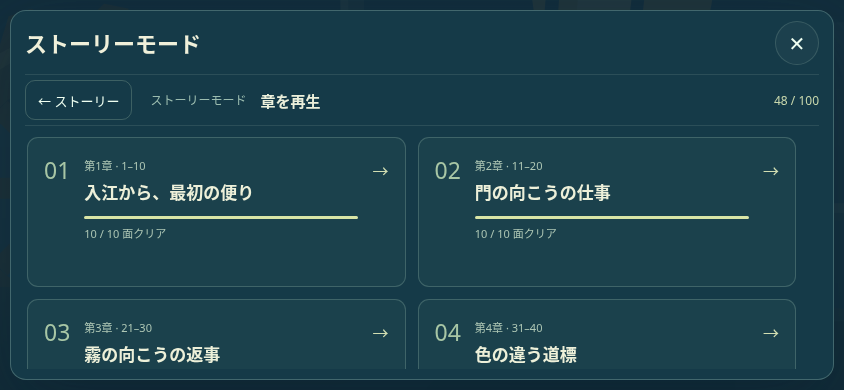
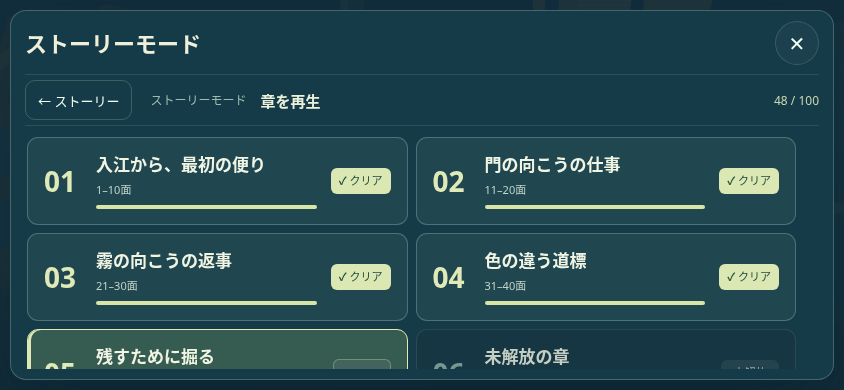
fix(arcline): clarify chapter list and make equipment catalogs easy to find

diff --git a/ARCLINE/game/dist/presentation.js b/ARCLINE/game/dist/presentation.js
@@ -60,7 +60,7 @@ function showCollection(data,onEquip,initialView='characters',options={}){
  const owned=id=>Crew.owned(data,id);
  function paint(){
   document.querySelector('#collectionPanel header strong').textContent=collectionView==='characters'?local('仲間と持ち物','Companions and inventory'):local('武器・スキル図鑑','Weapons and skills');
-  let body=`<div class="collection-tabs" role="tablist"><button data-collection-tab="characters" role="tab" aria-selected="${collectionView==='characters'}">${local('仲間','Companions')} ${data.unlockedCharacterIds.length}/10</button><button data-collection-tab="weapons" role="tab" aria-selected="${collectionView==='weapons'}">${local('武器一覧','Weapon records')}</button><button data-collection-tab="skills" role="tab" aria-selected="${collectionView==='skills'}">${local('スキル一覧','Skill records')}</button></div>`;
+  let body=`<div class="collection-tabs" role="tablist"><button data-collection-tab="characters" role="tab" aria-selected="${collectionView==='characters'}">${local('仲間','Companions')} ${data.unlockedCharacterIds.length}/10</button><button data-collection-tab="weapons" role="tab" aria-selected="${collectionView==='weapons'}">${local('武器図鑑','Weapon catalog')}</button><button data-collection-tab="skills" role="tab" aria-selected="${collectionView==='skills'}">${local('スキル図鑑','Skill catalog')}</button></div>`;
   if(collectionView==='characters'){
    const m=A.get(inspected),p=C.get(inspected),r=Crew.get(inspected),selected=data.equippedCharacterId===inspected;
    body+=`<div class="machine-roster"><div class="machine-buttons" role="group" aria-label="${local('10機の仲間','Ten machines')}">${Crew.rows.map(r=>root.ArcCharacterHero.tile(r.id,data,inspected,language())).join('')}</div><section class="machine-profile" aria-label="${m.name}">${root.ArcCharacterHero.markup(m.id,{data,lang:language(),description:root.ArcStory.pick(r.desire,language())})}</section></div>`;
@@ -84,27 +84,26 @@ function showWeapons(choices,current,onSelect,options={}){
  const library=!!options.library,skills=Object.entries(options.skills||{}).filter(([,n])=>n>0),aux=choices.filter(c=>c.id!=='W01'&&!((c.weapon||W.get(c.id)).special)&&c.ammo>0),total=aux.reduce((n,c)=>n+c.ammo,0),skillTotal=skills.reduce((n,[,count])=>n+count,0),scroller=$('weaponStockScroll'),positions={weapons:0,skills:0};let tab='weapons',inspected=null;
  $('weaponStockInspector')?.remove();
  $('weaponPickerTitle').textContent=library?local('武器・スキルの確認','Inspect weapons and skills'):options.title||'Choose weapon';document.querySelector('.weapon-picker-note').textContent=options.note||'Unused ammunition and skills carry across chapters. Each map capsule can be claimed once per difficulty.';
- $('weaponPicker').dataset.stockLibrary=String(library);$('weaponChoices').setAttribute('role',library?'tabpanel':'group');$('weaponChoices').setAttribute('aria-labelledby',library?'inventoryWeaponsTab':'weaponPickerTitle');$('inventoryTabs').hidden=!library;$('openLibrary').hidden=!library;
+ $('weaponPicker').dataset.stockLibrary=String(library);$('weaponChoices').setAttribute('role',library?'tabpanel':'group');$('weaponChoices').setAttribute('aria-labelledby',library?'inventoryWeaponsTab':'weaponPickerTitle');$('inventoryTabs').hidden=!library;$('inventoryCatalogLinks').hidden=!library;
  const refresh=()=>{
   $('weaponInventorySummary').textContent=library?local(`武器${aux.length}種類・${total}発 / スキル${skills.length}種類・${skillTotal}回`,`${aux.length} weapon types · ${total} shots / ${skills.length} skill types · ${skillTotal} uses`):local(`補助武器${aux.length}種類・残数${total}発`,`${aux.length} auxiliary types · ${total} shots`);
-  $('inventoryWeaponsTab').textContent=local('武器','Weapons')+' '+aux.length;$('inventorySkillsTab').textContent=local('スキル','Skills')+' '+skills.length;
+  $('inventoryWeaponsTab').textContent=local('保有武器','Owned weapons')+' '+aux.length;$('inventorySkillsTab').textContent=local('保有スキル','Owned skills')+' '+skills.length;
   $('weaponPickerTitle').textContent=library?local('武器・スキルの確認','Inspect weapons and skills'):options.title||'Choose weapon';
-  $('openLibrary').textContent=local('武器・スキル図鑑を開く','Open weapons and skills catalog');
+  $('openLibrary').querySelector('span').textContent=local('武器図鑑','Weapon catalog');$('openSkillLibrary').querySelector('span').textContent=local('スキル図鑑','Skill catalog');$('openLibrary').setAttribute('aria-label',local('全種類の武器図鑑を開く','Open the catalog of all weapons'));$('openSkillLibrary').setAttribute('aria-label',local('全種類のスキル図鑑を開く','Open the catalog of all skills'));
   for(const card of $('weaponChoices').querySelectorAll('[data-choose-weapon]')){const i=itemInfo(card.dataset.chooseWeapon);card.querySelector('strong').textContent=i.name;card.querySelector('.weapon-choice-copy small').textContent=i.note;card.setAttribute('aria-label',i.name+', '+stockLabel(card.dataset.chooseWeapon,'weapons',{weapons:Object.fromEntries(choices.map(c=>[c.id,c.ammo]))}));}
   $('chapterSkillStock').innerHTML=skills.length?skills.map(([id,n])=>{const info=root.ArcSkills.get(id);return `<button type="button" class="inventory-skill${info?.rare?' rare':''}" data-stock-skill="${id}"><i aria-hidden="true">${root.ArcSkills.markup(id)}</i><div><strong>${escape(itemInfo(id,'skills').name)}</strong><small>${escape(itemInfo(id,'skills').note)}</small></div><b class="inventory-count">×${n}</b></button>`;}).join(''):`<p class="stock-empty">${local('保有スキルはありません。マップのカプセルから入手できます。','No skills in stock. Collect capsules on the map.')}</p>`;
  };
  weaponRefresh=()=>{refresh();bindSkillInspection();paintInspector();};
- let category=null;$('weaponChoices').innerHTML=choices.map(choice=>{const heading=options.grouped&&choice.category!==category?`<h3 class="weapon-group-heading">${choice.category==='machine'?'Machine weapons':'Picked auxiliary'}</h3>`:'';category=choice.category;const w=choice.weapon||W.get(choice.id),selected=choice.id===current,empty=!!choice.disabled||choice.ammo<=0,stock=choice.id==='W01'?'Unlimited':`${choice.ammo} ${choice.ammo===1?'shot':'shots'}`,source=choice.id==='W01'?'Always available':choice.source||'Carries across chapters';return heading+`<button type="button" data-choose-weapon="${choice.id}" class="${selected?'selected ':''}${empty?'empty':''}" ${empty?'disabled':''} aria-pressed="${selected}" aria-label="${escape(w.name)}, ${stock}, ${empty?'empty':selected?'selected':source}" style="--weapon-color:${w.appearance.color}"><i aria-hidden="true">${W.iconMarkup(choice.id)}</i><span class="weapon-choice-copy"><strong>${escape(itemInfo(choice.id).name)}</strong><small>${escape(library?itemInfo(choice.id).note:source)}</small></span><span class="weapon-choice-stock"><span>${stock}</span><small>${empty?'Empty':selected?'Selected':'Select'}</small></span></button>`;}).join('');
- const switchTab=(next,focus=false)=>{positions[tab]=scroller.scrollTop;tab=next;document.querySelector('.weapon-picker-note').hidden=library&&tab==='skills';$('weaponChoices').hidden=tab!=='weapons';$('chapterSkillStock').hidden=tab!=='skills';$('openLibrary').hidden=!library;for(const name of ['weapons','skills']){const b=$(name==='weapons'?'inventoryWeaponsTab':'inventorySkillsTab'),active=name===tab;b.setAttribute('aria-selected',String(active));b.tabIndex=active?0:-1;if(active&&focus)b.focus({preventScroll:true});}scroller.scrollTop=positions[tab];inspected=null;paintInspector();};
+ let category=null;$('weaponChoices').innerHTML=choices.map(choice=>{const heading=options.grouped&&choice.category!==category?`<h3 class="weapon-group-heading">${choice.category==='machine'?'Machine weapons':'Picked auxiliary'}</h3>`:'';category=choice.category;const w=choice.weapon||W.get(choice.id),selected=!library&&choice.id===current,empty=!!choice.disabled||choice.ammo<=0,stock=choice.id==='W01'?'Unlimited':`${choice.ammo} ${choice.ammo===1?'shot':'shots'}`,source=choice.id==='W01'?'Always available':choice.source||'Carries across chapters';return heading+`<button type="button" data-choose-weapon="${choice.id}" class="${selected?'selected ':''}${empty?'empty':''}" ${empty?'disabled':''} aria-pressed="${selected}" aria-label="${escape(w.name)}, ${stock}, ${empty?'empty':selected?'selected':source}" style="--weapon-color:${w.appearance.color}"><i aria-hidden="true">${W.iconMarkup(choice.id)}</i><span class="weapon-choice-copy"><strong>${escape(itemInfo(choice.id).name)}</strong><small>${escape(library?itemInfo(choice.id).note:source)}</small></span><span class="weapon-choice-stock"><span>${stock}</span><small>${empty?'Empty':selected?'Selected':'Select'}</small></span></button>`;}).join('');
+ const switchTab=(next,focus=false)=>{positions[tab]=scroller.scrollTop;tab=next;document.querySelector('.weapon-picker-note').hidden=library&&tab==='skills';$('weaponChoices').hidden=tab!=='weapons';$('chapterSkillStock').hidden=tab!=='skills';$('inventoryCatalogLinks').hidden=!library;for(const name of ['weapons','skills']){const b=$(name==='weapons'?'inventoryWeaponsTab':'inventorySkillsTab'),active=name===tab;b.setAttribute('aria-selected',String(active));b.tabIndex=active?0:-1;if(active&&focus)b.focus({preventScroll:true});}scroller.scrollTop=positions[tab];inspected=null;paintInspector();};
  for(const name of ['weapons','skills']){const b=$(name==='weapons'?'inventoryWeaponsTab':'inventorySkillsTab');b.onclick=()=>switchTab(name);b.onkeydown=e=>{if(!['ArrowLeft','ArrowRight','Home','End'].includes(e.key))return;e.preventDefault();switchTab(e.key==='Home'?'weapons':e.key==='End'?'skills':tab==='weapons'?'skills':'weapons',true);};}
  let inspector=null;
  function paintInspector(){
   if(!library||!inspector)return;
   const info=inspected&&itemInfo(inspected,tab);
-  inspector.innerHTML=inspected?`<div><strong>${escape(info.name)}</strong><p>${escape(info.note)}</p><small>${tab==='skills'?local('ここでは確認のみ。戦闘中に使用できます。','Inspect here; use skills during battle.'):stockLabel(inspected,tab,{weapons:Object.fromEntries(choices.map(c=>[c.id,c.ammo]))})}</small></div>${tab==='weapons'?`<button type="button" id="confirmStockWeapon">${inspected===current?local('装備中','Equipped'):local('この武器を装備','Equip this weapon')}</button>`:''}`:`<p>${local('カードを選んで効果を確認。持ち物は消費しません。','Select a card to inspect. No stock is consumed.')}</p>`;
-  if($('confirmStockWeapon')){$('confirmStockWeapon').disabled=inspected===current;$('confirmStockWeapon').onclick=()=>{const id=inspected;closeWeapons();onSelect(id);};}
+  inspector.innerHTML=inspected?`<div><strong>${escape(info.name)}</strong><p>${escape(info.note)}</p><small>${stockLabel(inspected,tab,{weapons:Object.fromEntries(choices.map(c=>[c.id,c.ammo])),skills:options.skills})}</small><small class="stock-inspection-note">${local('戦闘中に選んで使用できます。','Choose and use it during battle.')}</small></div>`:`<p>${local('カードを選んで効果を確認。持ち物は消費しません。','Select a card to inspect. No stock is consumed.')}</p>`;
   for(const card of $('chapterSkillStock').querySelectorAll('[data-stock-skill]'))card.setAttribute('aria-pressed',String(card.dataset.stockSkill===inspected));
-  for(const card of $('weaponChoices').querySelectorAll('[data-choose-weapon]'))card.dataset.inspected=String(card.dataset.chooseWeapon===inspected);
+  for(const card of $('weaponChoices').querySelectorAll('[data-choose-weapon]')){card.dataset.inspected=String(card.dataset.chooseWeapon===inspected);card.setAttribute('aria-pressed',String(card.dataset.chooseWeapon===inspected));}
  }
  function bindSkillInspection(){for(const card of $('chapterSkillStock').querySelectorAll('[data-stock-skill]'))card.onclick=()=>{inspected=card.dataset.stockSkill;paintInspector();};}
  if(library){inspector=document.createElement('section');inspector.id='weaponStockInspector';inspector.className='stock-inspector';inspector.dataset.storyRaw='';inspector.setAttribute('aria-live','polite');$('weaponStockScroll').before(inspector);}

diff --git a/ARCLINE/game/dist/index.html b/ARCLINE/game/dist/index.html
@@ -85,7 +85,7 @@
 <div id="overlay" hidden><div class="modal" role="dialog" aria-modal="true" aria-labelledby="modalTitle" aria-describedby="modalDetail"><div id="resultIcon">Ⅱ</div><span id="modalEyebrow">DUEL PAUSED</span><h2 id="modalTitle">Take a breath.</h2><p id="modalDetail"></p><p id="clearRewardLine" hidden role="status"></p><section id="clearNarrative" data-story-raw hidden><canvas id="resultStoryArt" aria-hidden="true"></canvas><div class="clear-story-copy"><strong id="clearStoryTitle"></strong><small id="clearStoryArea"></small><div id="clearAreaProgress" aria-hidden="true" hidden></div><div id="chapterMessage" role="status" aria-live="polite"></div></div></section><button type="button" id="resume" class="play-button">RESUME</button><button type="button" id="retryFinalCharacter" class="play-button" hidden data-story-raw>このキャラから再挑戦</button><button type="button" id="replayClearMovie" class="quiet-button" hidden>Replay scene</button><button type="button" id="resultJourney" class="quiet-button" hidden>THE JOURNEY →</button><div id="endingCollection" hidden></div><button type="button" id="pauseMachineChange" class="quiet-button">機体を変更 / Switch machine</button><div id="pauseSettings" role="group" aria-label="Game settings"><button type="button" class="pause-fullscreen" data-fullscreen>Fullscreen</button><button type="button" class="pause-language" data-language-button>English</button><button type="button" id="mirrorControls" class="quiet-button">Move / aim → Right</button></div><button type="button" id="retryLevel" class="quiet-button">Retry level</button><button type="button" id="returnLobby" class="quiet-button">LOADOUT</button></div></div>
 <div id="levelPicker" hidden><div class="level-panel"><header><div><strong>Journey</strong></div><button type="button" id="closeLevels" aria-label="Close level selection">✕</button></header><div id="journeyAreas" role="tablist" aria-label="Journey themes"></div><div class="theme-switch"><button type="button" id="journeyPrev" aria-label="Previous theme">‹</button><div id="journeySummary"></div><button type="button" id="journeyNext" aria-label="Next theme">›</button></div><div id="levelGrid"></div><button type="button" id="restartChapter" class="quiet-button">Start chapter from the beginning</button></div></div>
 <div id="collectionPanel" hidden><div class="collection-panel"><header><div><strong>Equipment</strong></div><button type="button" id="closeCollection" aria-label="Close collection">✕</button></header><div id="collectionGrid"></div></div></div>
-<div id="lootPicker" hidden><div class="loot-panel" role="dialog" aria-modal="true" aria-labelledby="lootTitle" aria-describedby="lootInstruction"><h2 id="lootTitle">Weapon slots full</h2><p class="loot-incoming"><strong id="lootName"></strong><b id="lootAmount"></b></p><p id="lootInstruction">Replace one item, or skip.</p><div id="lootChoices"></div><button type="button" id="lootSkip" class="quiet-button">Skip pickup</button></div></div><div id="skillPicker" hidden><div class="weapon-panel" role="dialog" aria-modal="true" aria-labelledby="skillPickerTitle"><header><div class="stock-heading"><strong id="skillPickerTitle">Choose combat skill</strong><small id="skillInventorySummary" class="stock-summary"></small></div><button type="button" id="closeSkills" aria-label="Close skill selection">✕</button></header><div id="skillStockScroll" class="stock-scroll" role="region" aria-labelledby="skillPickerTitle" tabindex="0"><div id="skillChoices"></div><div id="repairConfirm" hidden><p id="repairAmount"></p><button type="button" id="repairCommit">Repair now</button><button type="button" id="repairCancel">Cancel repair</button></div></div></div></div><div id="weaponPicker" hidden><div class="weapon-panel" role="dialog" aria-modal="true" aria-labelledby="weaponPickerTitle"><header><div class="stock-heading"><strong id="weaponPickerTitle">Choose weapon</strong><small id="weaponInventorySummary" class="stock-summary"></small></div><button type="button" id="closeWeapons" aria-label="Close weapon selection">✕</button></header><div id="inventoryTabs" class="stock-tabs" role="tablist" hidden><button type="button" id="inventoryWeaponsTab" role="tab" aria-controls="weaponChoices" aria-selected="true">Weapons</button><button type="button" id="inventorySkillsTab" role="tab" aria-controls="chapterSkillStock" aria-selected="false">Skills</button></div><div id="weaponStockScroll" class="stock-scroll" role="region" aria-labelledby="weaponPickerTitle" tabindex="0"><div id="weaponChoices"></div><div id="chapterSkillStock" role="tabpanel" aria-labelledby="inventorySkillsTab" hidden></div><p class="weapon-picker-note">Unused weapons and skills carry across chapters.</p><button type="button" id="openLibrary" class="quiet-button" hidden>Weapon records</button></div></div></div>
+<div id="lootPicker" hidden><div class="loot-panel" role="dialog" aria-modal="true" aria-labelledby="lootTitle" aria-describedby="lootInstruction"><h2 id="lootTitle">Weapon slots full</h2><p class="loot-incoming"><strong id="lootName"></strong><b id="lootAmount"></b></p><p id="lootInstruction">Replace one item, or skip.</p><div id="lootChoices"></div><button type="button" id="lootSkip" class="quiet-button">Skip pickup</button></div></div><div id="skillPicker" hidden><div class="weapon-panel" role="dialog" aria-modal="true" aria-labelledby="skillPickerTitle"><header><div class="stock-heading"><strong id="skillPickerTitle">Choose combat skill</strong><small id="skillInventorySummary" class="stock-summary"></small></div><button type="button" id="closeSkills" aria-label="Close skill selection">✕</button></header><div id="skillStockScroll" class="stock-scroll" role="region" aria-labelledby="skillPickerTitle" tabindex="0"><div id="skillChoices"></div><div id="repairConfirm" hidden><p id="repairAmount"></p><button type="button" id="repairCommit">Repair now</button><button type="button" id="repairCancel">Cancel repair</button></div></div></div></div><div id="weaponPicker" hidden><div class="weapon-panel" role="dialog" aria-modal="true" aria-labelledby="weaponPickerTitle"><header><div class="stock-heading"><strong id="weaponPickerTitle">Choose weapon</strong><small id="weaponInventorySummary" class="stock-summary"></small></div><button type="button" id="closeWeapons" aria-label="Close weapon selection">✕</button></header><div id="inventoryTabs" class="stock-tabs" role="tablist" hidden><button type="button" id="inventoryWeaponsTab" role="tab" aria-controls="weaponChoices" aria-selected="true">Weapons</button><button type="button" id="inventorySkillsTab" role="tab" aria-controls="chapterSkillStock" aria-selected="false">Skills</button></div><nav id="inventoryCatalogLinks" class="catalog-shortcuts" aria-label="Equipment catalogs" hidden data-story-raw><button type="button" id="openLibrary"><span></span><b aria-hidden="true">↗</b></button><button type="button" id="openSkillLibrary"><span></span><b aria-hidden="true">↗</b></button></nav><div id="weaponStockScroll" class="stock-scroll" role="region" aria-labelledby="weaponPickerTitle" tabindex="0"><div id="weaponChoices"></div><div id="chapterSkillStock" role="tabpanel" aria-labelledby="inventorySkillsTab" hidden></div><p class="weapon-picker-note">Unused weapons and skills carry across chapters.</p></div></div></div>
 <section id="expeditionDialog" hidden role="dialog" aria-modal="true" aria-labelledby="expeditionTitle" aria-describedby="expeditionText expeditionQuestion" data-story-raw><div id="expeditionLoading" role="status" aria-live="polite" hidden><p id="expeditionLoadingText"></p><div><button type="button" id="expeditionLoadRetry" hidden></button><button type="button" id="expeditionLoadBack"></button></div></div>
   <div class="expedition-panel"><div class="expedition-visual"><div id="expeditionArt"></div></div><div class="expedition-copy"><small>ARCLINE</small><h2 id="expeditionTitle"></h2><h3 id="expeditionMachineName"></h3><h3 id="expeditionName"></h3><p id="expeditionRole"></p><p id="expeditionMotto"></p><p id="expeditionText"></p><details><summary id="expeditionAbilitySummary">固有必殺技</summary><p id="expeditionAbility"></p></details><p id="expeditionQuestion"></p><p id="expeditionError" hidden role="alert">保存できませんでした。もう一度選択してください。 / Save failed. Please retry.</p></div><div class="expedition-actions"><button type="button" id="expeditionUse"></button><button type="button" id="expeditionStay"></button></div></div></section><section id="chapterPlayback" hidden role="dialog" aria-modal="true" aria-labelledby="chapterPlaybackTitle" data-story-raw><header class="chapter-playback-header"><strong>ARCLINE</strong><span id="chapterPlaybackLabel"></span></header><div class="chapter-playback-body"><div id="chapterPlaybackArt"></div><div class="chapter-playback-copy"><h2 id="chapterPlaybackTitle"></h2><div id="chapterPlaybackText" role="status" aria-live="polite"></div></div></div><footer class="chapter-playback-controls"><button type="button" id="chapterPlaybackBack"></button><button type="button" id="chapterPlaybackPause"></button><button type="button" id="chapterPlaybackNext"></button></footer></section><section id="storyCinema" hidden role="dialog" aria-modal="true" aria-labelledby="filmTitle" data-story-raw><canvas id="storyFilm" aria-hidden="true"></canvas><div class="film-stage"><div id="filmPlate"></div><p id="filmImageStatus" role="status" hidden></p></div><header class="film-header"><span>ARCLINE <small id="filmCount"></small></span><nav><button type="button" id="filmPause">Pause</button><button type="button" id="filmSkip">Skip</button></nav></header><div class="film-caption"><div><h2 id="filmTitle"></h2><div id="filmText" role="status" aria-live="polite"></div></div><button type="button" id="filmNext">Next scene</button></div></section></div><section id="screenHelp" hidden role="dialog" aria-modal="true" aria-labelledby="screenHelpTitle"><div><h2 id="screenHelpTitle">Play without browser bars</h2><p>On iPhone Safari, use Share → Add to Home Screen, then launch ARCLINE from its icon.</p><p>Your progress stays on this browser. The home-screen app may have separate progress.</p><button type="button" id="closeScreenHelp">Close</button></div></section></main>
 <!-- runtime:scripts:start -->

diff --git a/ARCLINE/game/dist/menu-ui.css b/ARCLINE/game/dist/menu-ui.css
@@ -243,7 +243,6 @@ input:checked+span .difficulty-current { visibility: visible; }
 .stock-inspector strong { font-size: 20px; line-height: 1.4; }
 .stock-inspector p { font-size: 14px; line-height: 1.7; margin: 8px 0 12px; }
 .stock-inspector small { display: block; font-size: 12px; line-height: 1.6; color: #c7d9ca; }
-#confirmStockWeapon { min-height: 44px; width: 100%; margin-top: 16px; background: #ddebba; color: #163b47; }
 #weaponPicker[data-stock-library="true"] #weaponChoices { grid-template-columns: repeat(auto-fit,minmax(200px,1fr)); }
 #weaponPicker[data-stock-library="true"] #weaponChoices .weapon-choice-copy small { display: block; }
 #weaponPicker[data-stock-library="true"] #weaponChoices [data-inspected="true"],
@@ -254,3 +253,39 @@ input:checked+span .difficulty-current { visibility: visible; }
 #collectionGrid .equipment-grid *,#recordNavigation *,#recordBody *,#lobbySettings [role="tabpanel"] * { touch-action: pan-y; }
 @media (max-width:700px){.equipment-records .equipment-grid{grid-template-columns:1fr}.equipment-records{grid-template-columns:minmax(0,1.3fr) minmax(0,1fr);gap:8px}}
 @media (max-height:400px){#weaponPicker[data-stock-library="true"] .weapon-panel{gap:6px 10px}.stock-inspector{padding:10px}.stock-inspector strong{font-size:17px}.stock-inspector p{font-size:13px}.equipment-inspector{padding:10px}.equipment-inspector>strong{font-size:17px}.equipment-inspector p{font-size:13px}}
+
+/* Chapters are scanable rows: number, title/range, then an explicit status. */
+#recordNavigation[data-record-kind="chapters"] { grid-template-columns: repeat(2,minmax(0,1fr)); gap: 8px; }
+#recordNavigation .chapter-record { display:grid; grid-template-columns:38px minmax(0,1fr) auto; align-items:center; gap:14px; min-height:88px; padding:14px 16px; background:#204650; border-color:#92b2ab66; }
+#recordNavigation .chapter-record .record-card-number { font-size:28px; line-height:1.1; color:#e0eab8; font-weight:650; }
+#recordNavigation .chapter-record .record-card-copy { gap:5px; }
+#recordNavigation .chapter-record .record-card-copy>strong { font-size:17px; line-height:1.4; color:#f0f4e3; }
+#recordNavigation .chapter-record .record-card-copy>small { color:#c2d4c8; font-size:11px; line-height:1.4; }
+#recordNavigation .chapter-record .record-card-progress { height:4px; margin-top:2px; background:#b3cbb044; }
+.chapter-status { min-width:58px; text-align:center; white-space:nowrap; padding:6px 8px; border-radius:6px; font-size:11px; line-height:1.3; font-variant-numeric:tabular-nums; }
+.chapter-status.complete { background:#dce8b4; color:#224b3f; }
+.chapter-status.current { color:#edf2c8; background:#42645d; border:1px solid #aec48f77; }
+.chapter-status.locked { color:#b7cbc3; background:#294650; }
+#recordNavigation .chapter-record:disabled { opacity:.8; background:#163642; border-color:#77968e44; }
+#recordNavigation .chapter-record:disabled .record-card-number { color:#91afa3; }
+#recordNavigation .chapter-record[aria-current="true"] { background:#365c52; border-color:#e1eab1; box-shadow:inset 3px 0 #dce8b4; }
+/* Both catalogs stay visible beside the owned-stock tabs, including empty stock. */
+#weaponPicker[data-stock-library="true"] #inventoryTabs { grid-column:1; }
+#weaponPicker[data-stock-library="true"] #inventoryCatalogLinks { grid-column:2; grid-row:2; }
+.catalog-shortcuts { display:grid; grid-template-columns:1fr 1fr; gap:8px; min-width:0; }
+.catalog-shortcuts button { display:flex; align-items:center; justify-content:space-between; gap:6px; min-height:42px; padding:8px 10px; color:#e4edbe; background:#31564f; border:1px solid #c3d49b99; border-radius:9px; font-size:13px; line-height:1.3; text-align:left; }
+.catalog-shortcuts button b { font-size:15px; }
+#openLibrary { width:auto; min-height:42px; margin:0; }
+#weaponPicker[data-stock-library="true"] .stock-tabs button { padding:6px 8px; font-size:13px; }
+.stock-inspector .stock-inspection-note { margin-top:16px; padding-top:12px; border-top:1px solid #91b3a344; }
+@media(max-width:650px){
+ #recordNavigation .chapter-record { grid-template-columns:28px minmax(0,1fr) auto; gap:8px; min-height:94px; padding:12px 10px; }
+ #recordNavigation .chapter-record .record-card-number { font-size:23px; }
+ #recordNavigation .chapter-record .record-card-copy>strong { font-size:14px; }
+ #recordNavigation .chapter-record .record-card-copy>small { font-size:10px; }
+ .chapter-status { min-width:45px; padding:5px; font-size:10px; }
+ .catalog-shortcuts { gap:5px; }
+ .catalog-shortcuts button { padding:6px; gap:3px; font-size:11px; }
+ .catalog-shortcuts button b { font-size:12px; }
+ #weaponPicker[data-stock-library="true"] .stock-tabs button { font-size:11px; padding:6px 4px; }
+}

diff --git a/ARCLINE/game/styles/menu-ui.css b/ARCLINE/game/styles/menu-ui.css
@@ -242,7 +242,6 @@ input:checked+span .difficulty-current { visibility: visible; }
 .stock-inspector strong { font-size: 20px; line-height: 1.4; }
 .stock-inspector p { font-size: 14px; line-height: 1.7; margin: 8px 0 12px; }
 .stock-inspector small { display: block; font-size: 12px; line-height: 1.6; color: #c7d9ca; }
-#confirmStockWeapon { min-height: 44px; width: 100%; margin-top: 16px; background: #ddebba; color: #163b47; }
 #weaponPicker[data-stock-library="true"] #weaponChoices { grid-template-columns: repeat(auto-fit,minmax(200px,1fr)); }
 #weaponPicker[data-stock-library="true"] #weaponChoices .weapon-choice-copy small { display: block; }
 #weaponPicker[data-stock-library="true"] #weaponChoices [data-inspected="true"],
@@ -253,3 +252,39 @@ input:checked+span .difficulty-current { visibility: visible; }
 #collectionGrid .equipment-grid *,#recordNavigation *,#recordBody *,#lobbySettings [role="tabpanel"] * { touch-action: pan-y; }
 @media (max-width:700px){.equipment-records .equipment-grid{grid-template-columns:1fr}.equipment-records{grid-template-columns:minmax(0,1.3fr) minmax(0,1fr);gap:8px}}
 @media (max-height:400px){#weaponPicker[data-stock-library="true"] .weapon-panel{gap:6px 10px}.stock-inspector{padding:10px}.stock-inspector strong{font-size:17px}.stock-inspector p{font-size:13px}.equipment-inspector{padding:10px}.equipment-inspector>strong{font-size:17px}.equipment-inspector p{font-size:13px}}
+
+/* Chapters are scanable rows: number, title/range, then an explicit status. */
+#recordNavigation[data-record-kind="chapters"] { grid-template-columns: repeat(2,minmax(0,1fr)); gap: 8px; }
+#recordNavigation .chapter-record { display:grid; grid-template-columns:38px minmax(0,1fr) auto; align-items:center; gap:14px; min-height:88px; padding:14px 16px; background:#204650; border-color:#92b2ab66; }
+#recordNavigation .chapter-record .record-card-number { font-size:28px; line-height:1.1; color:#e0eab8; font-weight:650; }
+#recordNavigation .chapter-record .record-card-copy { gap:5px; }
+#recordNavigation .chapter-record .record-card-copy>strong { font-size:17px; line-height:1.4; color:#f0f4e3; }
+#recordNavigation .chapter-record .record-card-copy>small { color:#c2d4c8; font-size:11px; line-height:1.4; }
+#recordNavigation .chapter-record .record-card-progress { height:4px; margin-top:2px; background:#b3cbb044; }
+.chapter-status { min-width:58px; text-align:center; white-space:nowrap; padding:6px 8px; border-radius:6px; font-size:11px; line-height:1.3; font-variant-numeric:tabular-nums; }
+.chapter-status.complete { background:#dce8b4; color:#224b3f; }
+.chapter-status.current { color:#edf2c8; background:#42645d; border:1px solid #aec48f77; }
+.chapter-status.locked { color:#b7cbc3; background:#294650; }
+#recordNavigation .chapter-record:disabled { opacity:.8; background:#163642; border-color:#77968e44; }
+#recordNavigation .chapter-record:disabled .record-card-number { color:#91afa3; }
+#recordNavigation .chapter-record[aria-current="true"] { background:#365c52; border-color:#e1eab1; box-shadow:inset 3px 0 #dce8b4; }
+/* Both catalogs stay visible beside the owned-stock tabs, including empty stock. */
+#weaponPicker[data-stock-library="true"] #inventoryTabs { grid-column:1; }
+#weaponPicker[data-stock-library="true"] #inventoryCatalogLinks { grid-column:2; grid-row:2; }
+.catalog-shortcuts { display:grid; grid-template-columns:1fr 1fr; gap:8px; min-width:0; }
+.catalog-shortcuts button { display:flex; align-items:center; justify-content:space-between; gap:6px; min-height:42px; padding:8px 10px; color:#e4edbe; background:#31564f; border:1px solid #c3d49b99; border-radius:9px; font-size:13px; line-height:1.3; text-align:left; }
+.catalog-shortcuts button b { font-size:15px; }
+#openLibrary { width:auto; min-height:42px; margin:0; }
+#weaponPicker[data-stock-library="true"] .stock-tabs button { padding:6px 8px; font-size:13px; }
+.stock-inspector .stock-inspection-note { margin-top:16px; padding-top:12px; border-top:1px solid #91b3a344; }
+@media(max-width:650px){
+ #recordNavigation .chapter-record { grid-template-columns:28px minmax(0,1fr) auto; gap:8px; min-height:94px; padding:12px 10px; }
+ #recordNavigation .chapter-record .record-card-number { font-size:23px; }
+ #recordNavigation .chapter-record .record-card-copy>strong { font-size:14px; }
+ #recordNavigation .chapter-record .record-card-copy>small { font-size:10px; }
+ .chapter-status { min-width:45px; padding:5px; font-size:10px; }
+ .catalog-shortcuts { gap:5px; }
+ .catalog-shortcuts button { padding:6px; gap:3px; font-size:11px; }
+ .catalog-shortcuts button b { font-size:12px; }
+ #weaponPicker[data-stock-library="true"] .stock-tabs button { font-size:11px; padding:6px 4px; }
+}

diff --git a/ARCLINE/game/dist/menus.js b/ARCLINE/game/dist/menus.js
@@ -102,8 +102,8 @@ function renderStoryHub(){
  for(const button of $('storyHub').querySelectorAll('[data-record-tab]')){button.onclick=()=>showStoryList(button.dataset.recordTab);touchTap(button);}
 }
 function renderRecordList(){
- const data=hooks.data(),n=J.progress(data),machines=tab==='machines';
- $('recordNavigation').innerHTML=machines?root.ArcCrew.rows.map((r,i)=>{const owned=root.ArcCrew.owned(data,r.id);return `<button type="button" class="story-record-card companion-record" data-record-machine="${r.id}" data-record-id="${r.id}" aria-current="${r.id===machine}" ${owned?'':'disabled'}><span class="record-card-number">${String(i+1).padStart(2,'0')}</span><span class="record-card-copy"><strong>${escape(t(r.name))}</strong><small>${owned?local('背景・個性・旅の記録','Background, personality and journey'):local(r.stage+'面クリアで解放','Clear stage '+r.stage+' to unlock')}</small></span><span class="record-card-arrow" aria-hidden="true">${owned?'→':'—'}</span></button>`;}).join(''):J.chapters.map(c=>{const open=n>=c.start-1,done=Math.max(0,Math.min(10,n-c.start+1));return `<button type="button" class="story-record-card" ${tab==='scenes'?'data-story-chapter':'data-record-chapter'}="${c.id}" data-record-id="${c.id}" aria-current="${c.id===chapter}" ${open?'':'disabled'}><span class="record-card-number">${String(c.id).padStart(2,'0')}</span><span class="record-card-copy"><small>${local('第'+c.id+'章','Chapter '+c.id)} · ${c.start}–${c.end}</small><strong>${open?escape(t(c.title)):local('未解放の章','Locked chapter')}</strong><span class="record-card-progress"><i style="width:${done*10}%"></i></span><small>${open?local(done+' / 10 面クリア',done+' / 10 stages cleared'):local((c.start-1)+'面クリアで解放','Clear stage '+(c.start-1)+' to unlock')}</small></span><span class="record-card-arrow" aria-hidden="true">${open?'→':'—'}</span></button>`;}).join('');
+ const data=hooks.data(),n=J.progress(data),machines=tab==='machines';$('recordNavigation').dataset.recordKind=machines?'companions':'chapters';
+ $('recordNavigation').innerHTML=machines?root.ArcCrew.rows.map((r,i)=>{const owned=root.ArcCrew.owned(data,r.id);return `<button type="button" class="story-record-card companion-record" data-record-machine="${r.id}" data-record-id="${r.id}" aria-current="${r.id===machine}" ${owned?'':'disabled'}><span class="record-card-number">${String(i+1).padStart(2,'0')}</span><span class="record-card-copy"><strong>${escape(t(r.name))}</strong><small>${owned?local('背景・個性・旅の記録','Background, personality and journey'):local(r.stage+'面クリアで解放','Clear stage '+r.stage+' to unlock')}</small></span><span class="record-card-arrow" aria-hidden="true">${owned?'→':'—'}</span></button>`;}).join(''):J.chapters.map(c=>{const open=n>=c.start-1,done=Math.max(0,Math.min(10,n-c.start+1)),state=done===10?'complete':open?'current':'locked',status=done===10?local('クリア','Cleared'):open?done+' / 10':local('未解放','Locked');return `<button type="button" class="story-record-card chapter-record" ${tab==='scenes'?'data-story-chapter':'data-record-chapter'}="${c.id}" data-record-id="${c.id}" aria-current="${c.id===chapter}" ${open?'':'disabled'}><span class="record-card-number">${String(c.id).padStart(2,'0')}</span><span class="record-card-copy"><strong>${open?escape(t(c.title)):local('未解放の章','Locked chapter')}</strong><small>${local(c.start+'–'+c.end+'面','Stages '+c.start+'–'+c.end)}${open?'':local(' · '+(c.start-1)+'面クリアで解放',' · Clear stage '+(c.start-1)+' to unlock')}</small><span class="record-card-progress"><i style="width:${done*10}%"></i></span></span><span class="chapter-status ${state}">${done===10?'<b aria-hidden="true">✓</b> ':''}${status}</span></button>`;}).join('');
  for(const button of $('recordNavigation').querySelectorAll('[data-record-id]')){button.onclick=()=>{if(!button.disabled)chooseRecord(button.dataset.recordId);};touchTap(button);}
 }
 function renderJournal(){

diff --git a/ARCLINE/game/dist/game.js b/ARCLINE/game/dist/game.js
@@ -81,7 +81,7 @@ function confirmChapter(stage){
 function openChapterInventory(){
  if(hostPaused())return;const context=R.inspect(save.data,selectedMap+1);
  const choices=[{id:'W01',ammo:Infinity},...Object.entries(context.entry.inventory.weapons).map(([id,ammo])=>({id,ammo,source:'Carries across chapters'}))];
- ArcPresentation.showWeapons(choices,context.entry.mode||'W01',id=>{if(R.chooseWeapon(save.data,selectedMap+1,id))save.save();syncLobby();},{title:'Chapter inventory',note:'Unused ammunition and skills carry across chapters. Each map capsule can be claimed once per difficulty.',library:true,skills:context.entry.inventory.skills});
+ ArcPresentation.showWeapons(choices,context.entry.mode||'W01',()=>{},{title:'Chapter inventory',note:'Unused ammunition and skills carry across chapters. Each map capsule can be claimed once per difficulty.',library:true,skills:context.entry.inventory.skills});
 }
 function openLoot(continuation){
  if(!s?.pendingLoot.length)return false;clearInput();lootContinuation=continuation;$('lootPicker').hidden=false;paintLoot();hud();return true;
@@ -365,6 +365,7 @@ $('weaponLoadout').onchange=e=>{unlockAudio();save.data.equippedWeaponId=e.targe
 function openEquipment(view='characters'){if(hostPaused()||ArcStoryView.active||ArcExpeditionUi.active)return;clearInput();ArcPresentation.showCollection(save.data,change=>{if(change.characterId&&!ArcCrew.owned(save.data,change.characterId))return false;if(change.weaponId)save.data.equippedWeaponId=change.weaponId;if(change.characterId)save.data.equippedCharacterId=change.characterId;save.save();syncLobby();draw();return true;},view,{trigger:view==='characters'?$('openCharacters'):$('openCollection'),inventory:R.inspect(save.data,selectedMap+1).entry.inventory});}
 $('openCollection').onclick=openChapterInventory;$('openCharacters').onclick=()=>openEquipment('characters');
 $('openLibrary').onclick=()=>{ArcPresentation.closeWeapons();openEquipment('weapons');};
+$('openSkillLibrary').onclick=()=>{ArcPresentation.closeWeapons();openEquipment('skills');};
 $('lootSkip').onclick=()=>finishLoot(null,true);
 $('closeCollection').onclick=()=>ArcPresentation.closeCollection();$('pauseMachineChange').onclick=openBattleMachines;
 $('pause').onclick=pause;$('resume').onclick=async()=>{if(hostPaused()||ArcStoryView.active||movieOpening)return;

diff --git a/ARCLINE/updates/0.29.7/index.html b/ARCLINE/updates/0.29.7/index.html
@@ -1,1 +1,1 @@
-<!doctype html><html lang="ja"><meta charset="utf-8"><meta name="viewport" content="width=device-width,initial-scale=1"><title>ARCLINE 0.29.7</title><style>body{margin:0;background:#173b49;color:#ecf2df;font:16px/1.8 system-ui}main{max-width:700px;margin:10vh auto;padding:24px}a{color:#d8efad}</style><main><h1>ARCLINE 0.29.7</h1><ul><li>セーブデータの削除を「設定 → データ」へ移しました。</li><li>設定を左の項目選択と右の内容表示へ再設計しました。</li><li>武器・スキルの効果と保有数を確認できる図鑑を追加しました。持ち物はカードで確認してから、装備ボタンで確定できます。</li><li>ストーリーを入口・章や仲間の一覧・詳細の3階層へ再設計。章の概要と再生操作も整理しました。</li></ul><p><a href="../../game/dist/">ゲームへ</a> · <a href="../../">ARCLINE</a></p></main></html>
+<!doctype html><html lang="ja"><meta charset="utf-8"><meta name="viewport" content="width=device-width,initial-scale=1"><title>ARCLINE 0.29.7</title><style>body{margin:0;background:#173b49;color:#ecf2df;font:16px/1.8 system-ui}main{max-width:700px;margin:10vh auto;padding:24px}a{color:#d8efad}</style><main><h1>ARCLINE 0.29.7</h1><ul><li>セーブデータの削除を「設定 → データ」へ移しました。</li><li>設定を左の項目選択と右の内容表示へ再設計しました。</li><li>武器・スキルの効果と保有数を確認できる図鑑を追加しました。確認画面は閲覧専用にし、武器図鑑・スキル図鑑への入口を上部へ置きました。</li><li>ストーリーを入口・章や仲間の一覧・詳細の3階層へ再設計。章の概要と再生操作、章一覧の進行表示も整理しました。</li></ul><p><a href="../../game/dist/">ゲームへ</a> · <a href="../../">ARCLINE</a></p></main></html>

diff --git a/ARCLINE/docs/releases/0.29.7.md b/ARCLINE/docs/releases/0.29.7.md
@@ -2,16 +2,20 @@
 
 開始画面とロビーにあったセーブ削除を「設定 → データ」へ移動。従来の確認、キャンセル、失敗時の旧データ保持、保存成功後の初期画面への復帰を維持する。設定を左のカテゴリナビ（プレイ環境・難易度・操作ガイド・セーブデータ）と右の内容ペインへ再設計。環境設定は説明と操作ボタンを一行にまとめ、難易度は射線・敵の狙い・選択状態を示す。見出しとナビを維持し、内容だけをスクロールする。ロビーの難易度ボタンからは該当カテゴリへ直行する。操作ガイドの古い「章ボス後に持ち物リセット」の説明も、現行の章越し持越しへ修正。
 
-ロビーの武器カードは確認してから装備を確定する。スキルカードも選択でき、効果を表示する。ロビーでのスキル使用は行わない。武器・スキル図鑑には通常弾＋現行12武器・15スキルの共有図形・現在の名称・効果・保有数を掲載し、旧アイテムが在庫にあれば併載する。一覧・確認欄を分けてスクロールできるようにし、Escape・閉じるボタンで戻った際のフォーカスと背景入力を復帰する。
+ロビーの武器・スキル確認は閲覧専用とする。武器カードの「この武器を装備」と、確認画面からの装備保存処理を削除。戦闘中の武器選択は従来通り。保有タブ横に「武器図鑑」「スキル図鑑」の入口を固定し、それぞれの図鑑へ直行する。スキルカードも選択でき、効果を表示する。ロビーでのスキル使用は行わない。武器・スキル図鑑には通常弾＋現行12武器・15スキルの共有図形・現在の名称・効果・保有数を掲載し、旧アイテムが在庫にあれば併載する。一覧・確認欄を分けてスクロールできるようにし、Escape・閉じるボタンで戻った際のフォーカスと背景入力を復帰する。
 
-ストーリーは「入口 → 一覧 → 詳細」の三階層へ再設計。入口で章再生・旅の記録・仲間の記録を選び、章や仲間をカード一覧から開く。詳細は画面全体を使い、章の概要と再生操作を左右に配置。「一覧へ戻る」と「ロビーへ閉じる」を区別し、Escapeでも階層を一つ戻る。戻った一覧のスクロール位置を維持し、入口から章詳細へ直接進んだ場合は戻り先の選択章を表示する。未解放の章・仲間の条件、物語本文、開いた記録だけを既読にする処理は維持する。
+ストーリーは「入口 → 一覧 → 詳細」の三階層へ再設計。入口で章再生・旅の記録・仲間の記録を選び、章や仲間を一覧から開く。章一覧はコンパクトな2列で、番号・章名・面範囲・進行バー・クリア／進行数／未解放の状態を分離する。詳細は画面全体を使い、章の概要と再生操作を左右に配置。「一覧へ戻る」と「ロビーへ閉じる」を区別し、Escapeでも階層を一つ戻る。戻った一覧のスクロール位置を維持し、入口から章詳細へ直接進んだ場合は戻り先の選択章を表示する。未解放の章・仲間の条件、物語本文、開いた記録だけを既読にする処理は維持する。
 
 編集元は手書きの `game/dist/index.html`・`menus.js`・`presentation.js`・`game.js`、生成元の `game/ui/onboarding.js`・`battle-ui.js`・`difficulty-ui.js`、新しい `game/styles/menu-ui.css`。版数・キャッシュは `game/runtime.json` から0.29.7へ正式生成。セーブschema8/reset2・保存キー・在庫の数値・取得記録・戦闘・地形・AI・物語本文は変更しない。
 
-[検証計画](../../evidence/menu-inventory-0297/PLAN.txt)と [CI計画](../../verification-plan.json)に従い、無関係な全100面・攻撃・音声・エンディングの検査は省略。メニューのブラウザ検査270項目、設定削除のブラウザ検査35項目、従来の保存削除単体検査、既存戦闘UIのブラウザ検査が成功。PC1280×720、小型844×390／568×240、393×852の回転縦画面、日本語／英語、カード上からの実タッチスクロール、章再生後の復帰、装備確定と在庫保持を確認。削除検査はLocalStorageとSDK模擬のキャンセル・保存失敗・再試行・再読込・無関係な保存の保護を含み、ネイティブ音声と映像の再検査は除外。
+[検証計画](../../evidence/menu-inventory-0297/PLAN.txt)と [CI計画](../../verification-plan.json)に従い、無関係な全100面・攻撃・音声・エンディングの検査は省略。メニューのブラウザ検査306項目、設定削除のブラウザ検査35項目、従来の保存削除単体検査、既存戦闘UIのブラウザ検査が成功。PC1280×720、小型844×390／568×240、393×852の回転縦画面、日本語／英語、カード上からの実タッチスクロール、章再生後の復帰、閲覧専用と在庫保持を確認。削除検査はLocalStorageとSDK模擬のキャンセル・保存失敗・再試行・再読込・無関係な保存の保護を含み、ネイティブ音声と映像の再検査は除外。
 
 [画面見本](../../evidence/menu-inventory-0297/README.md)。物理端末でのSafari確認・mainマージ・本番配信は別工程。実装ブランチで修正済み。
 
 ## メニュー構造の追加検証
 
 [再設計の計画](../../evidence/menu-inventory-0297/redesign/PLAN.txt)。4サイズ×日英に加え、0面と100面の進行で全12条件の設定／ストーリー導線を検査。ローカルでは先行4条件と、一覧の位置復帰を修正後に再開した残り8条件が成功し、最終PRのCIは12条件すべてを通して確認する。言語・左右配置・インストール案内・難易度別保存と再読込、背景の入力遮断、Tab移動、実タッチスクロール、章再生後の同じ詳細への復帰、既読だけの更新を含む。武器スキルと削除の隣接検査も再設計後に成功。前回成功の戦闘UIと保存単体はローカルで重複実行せず、PR全体のCI計画には保持する。
+
+## 章一覧・図鑑の追加修正
+
+[計画](../../evidence/menu-inventory-0297/discovery/PLAN.txt)。章一覧の文字と状態の非重複をゲームの論理座標で検査し、回転縦持ちでも同じ基準を使う。武器確認には装備操作が存在しないこと、確認／図鑑でセーブが完全一致すること、図鑑入口がスクロール不要で見えること、空在庫でもスキル全15種を閲覧できることを確認。現行12武器＋通常弾・15スキルと旧セーブのスキルを維持する。戦闘中の武器選択は隣接検査で保護する。

diff --git a/ARCLINE/evidence/menu-inventory-0297/README.md b/ARCLINE/evidence/menu-inventory-0297/README.md
@@ -14,4 +14,6 @@
 | --- | --- |
 | ![武器確認](inventory.png) | ![図鑑](catalog.png) |
 
-[再設計の計画](redesign/PLAN.txt)／[ローカルの再開後8条件](redesign/MENU_STRUCTURE_BROWSER_LOCAL.json)／[先行4条件の記録](redesign/EARLIER_CASES.txt)。全12条件は最終PRのCIで通して実行する。既存の[持ち物メニュー検査](MENU_INVENTORY_BROWSER.json)は新階層へ更新して270項目成功、[削除保護](SETTINGS_DELETE_BROWSER.json)35項目成功。[保存単体](START_LANDSCAPE_UNIT.json)と戦闘UIは前回の成功結果を再利用し、PR全体のCI計画では引き続き検証する。実タッチはChromium CDP入力であり、物理端末での動作確認とは区別する。
+[再設計の計画](redesign/PLAN.txt)／[ローカルの再開後8条件](redesign/MENU_STRUCTURE_BROWSER_LOCAL.json)／[先行4条件の記録](redesign/EARLIER_CASES.txt)。全12条件は最終PRのCIで通して実行する。既存の[持ち物メニュー検査](MENU_INVENTORY_BROWSER.json)は閲覧専用・図鑑直行へ更新して306項目成功、[削除保護](SETTINGS_DELETE_BROWSER.json)35項目成功。[保存単体](START_LANDSCAPE_UNIT.json)と戦闘UIは前回の成功結果を再利用し、PR全体のCI計画では引き続き検証する。実タッチはChromium CDP入力であり、物理端末での動作確認とは区別する。
+
+最新追加: [章一覧・図鑑入口の計画](discovery/PLAN.txt)。武器確認の装備ボタンは削除し、武器・スキルそれぞれの図鑑入口を保有タブの横へ固定した。章一覧は番号・章名・面範囲と状態を分けたコンパクトな2列表示。上の見本も更新済み。

diff --git a/ARCLINE/AGENTS.md b/ARCLINE/AGENTS.md
@@ -1,4 +1,4 @@
-**0.29.7 メニューと一覧：** セーブ削除を設定のデータへ移動。設定を左カテゴリナビ＋右ペイン、ストーリーを入口→一覧→詳細へ再設計。武器・スキルの図鑑／効果確認と装備確定も整理。戦闘・在庫数値・save8/reset2は維持。[範囲と検証](docs/releases/0.29.7.md)。実装ブランチで修正・検証済み、未マージ・未公開。
+**0.29.7 メニューと一覧：** セーブ削除を設定のデータへ移動。設定を左カテゴリナビ＋右ペイン、ストーリーを入口→一覧→詳細へ再設計。章一覧の視認性と武器・スキル図鑑の常設入口も改善。ロビーの武器確認は閲覧専用。戦闘・在庫数値・save8/reset2は維持。[範囲と検証](docs/releases/0.29.7.md)。実装ブランチで修正・検証済み、未マージ・未公開。
 
 **0.29.6 ダメージ表示とヒバリ光輪：** 数字を1か所の累積表示へ簡略化。光輪の円周と判定を合わせ、一部が遮られても見えている敵の輪郭へ到達すれば命中する。部位を壊した光輪は残りの威力を先へ運ぶ。設定された威力・上限・地形・保存は維持。[範囲と検証](docs/releases/0.29.6.md)。未マージ・未公開。
 

diff --git a/ARCLINE/README.md b/ARCLINE/README.md
@@ -1,4 +1,4 @@
-**0.29.7 メニューと一覧：** セーブ削除を設定のデータへ移動。設定を左カテゴリナビ＋右ペイン、ストーリーを入口→一覧→詳細へ再設計。武器・スキルの図鑑／効果確認と装備確定も整理。戦闘・在庫数値・save8/reset2は維持。[範囲と検証](docs/releases/0.29.7.md)。実装ブランチで修正・検証済み、未マージ・未公開。
+**0.29.7 メニューと一覧：** セーブ削除を設定のデータへ移動。設定を左カテゴリナビ＋右ペイン、ストーリーを入口→一覧→詳細へ再設計。章一覧の視認性と武器・スキル図鑑の常設入口も改善。ロビーの武器確認は閲覧専用。戦闘・在庫数値・save8/reset2は維持。[範囲と検証](docs/releases/0.29.7.md)。実装ブランチで修正・検証済み、未マージ・未公開。
 
 **0.29.6 ダメージ表示とヒバリ光輪：** 数字を1か所の累積表示へ簡略化。光輪の円周と判定を合わせ、一部が遮られても見えている敵の輪郭へ到達すれば命中する。部位を壊した光輪は残りの威力を先へ運ぶ。設定された威力・上限・地形・保存は維持。[範囲と検証](docs/releases/0.29.6.md)。未マージ・未公開。
 

diff --git a/ARCLINE/game/README.md b/ARCLINE/game/README.md
@@ -1,4 +1,4 @@
-0.29.7：設定ワークスペース・ストーリー三階層・図鑑は手書きの `dist/menus.js`・`presentation.js`・`index.html`、削除UIは `ui/onboarding.js`、難易度直行は `ui/difficulty-ui.js`、画面調整は `styles/menu-ui.css`。ロビー持ち物の確認と装備を分離し、戦闘の既存選択は維持。[範囲と検証](../docs/releases/0.29.7.md)。
+0.29.7：設定ワークスペース・ストーリー三階層・図鑑は手書きの `dist/menus.js`・`presentation.js`・`index.html`、削除UIは `ui/onboarding.js`、難易度直行は `ui/difficulty-ui.js`、画面調整は `styles/menu-ui.css`。ロビーの確認は閲覧専用にし、武器／スキル図鑑への入口を固定。章一覧は状態別のコンパクトな行へ変更。戦闘の既存選択は維持。[範囲と検証](../docs/releases/0.29.7.md)。
 
 0.29.4：マスターモードの進行・在庫編集は `dist/master-progress.js`、画面は `ui/master-mode.js` と `styles/master-mode.css`。現行カタログと在庫上限を使い、永続在庫と出撃チェックポイントを同時更新。[範囲](../docs/releases/0.29.4.md)。
 
